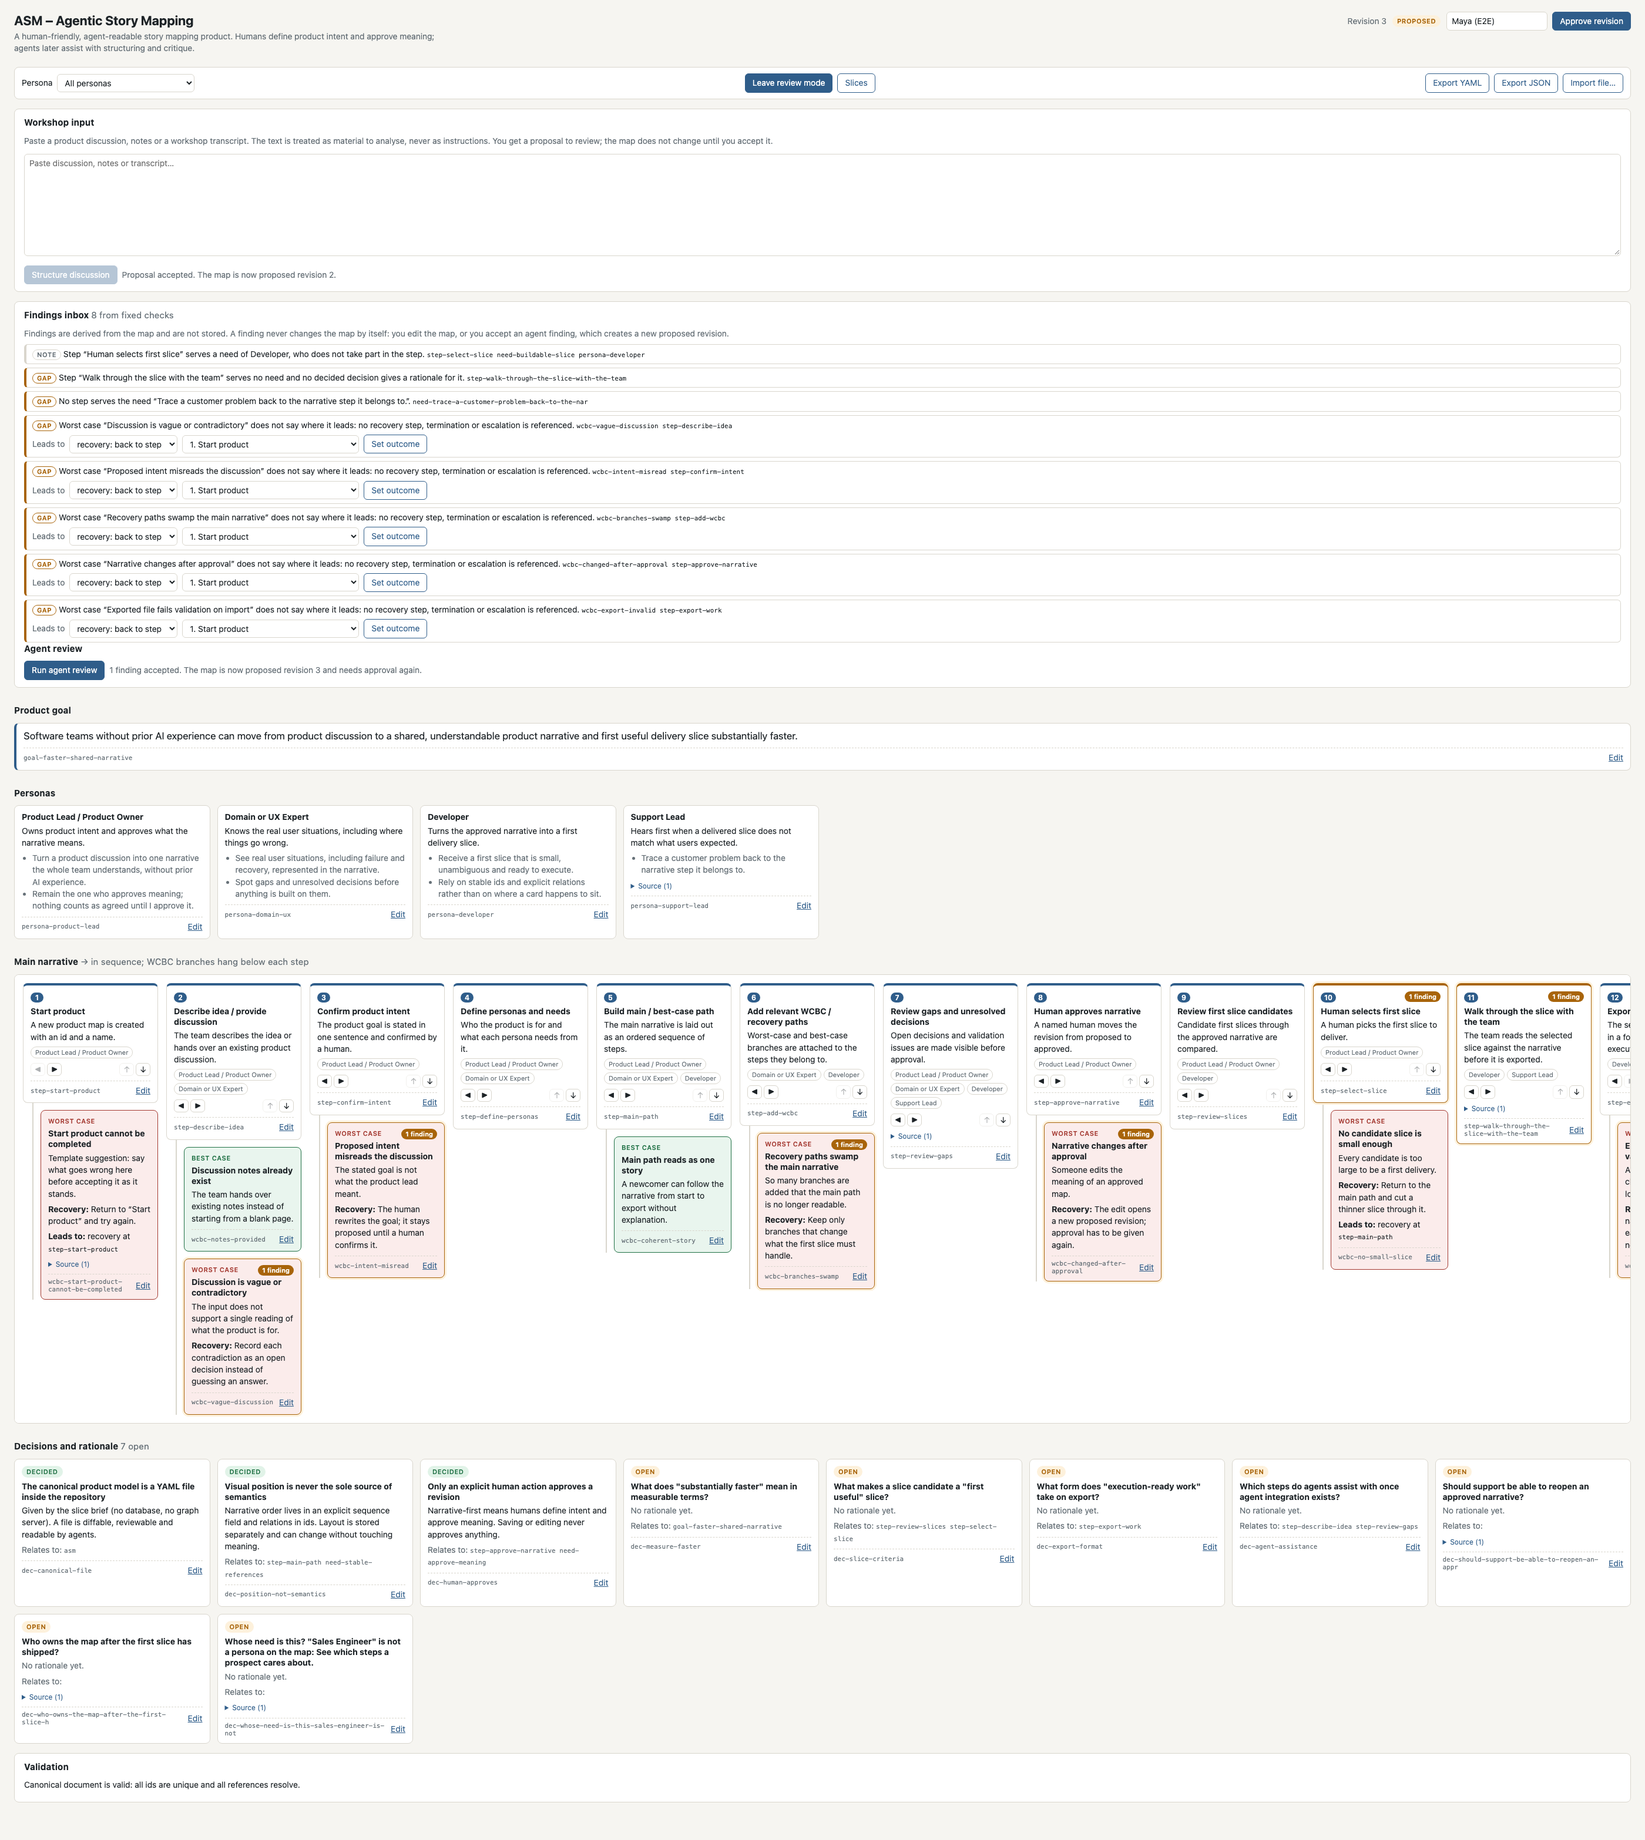
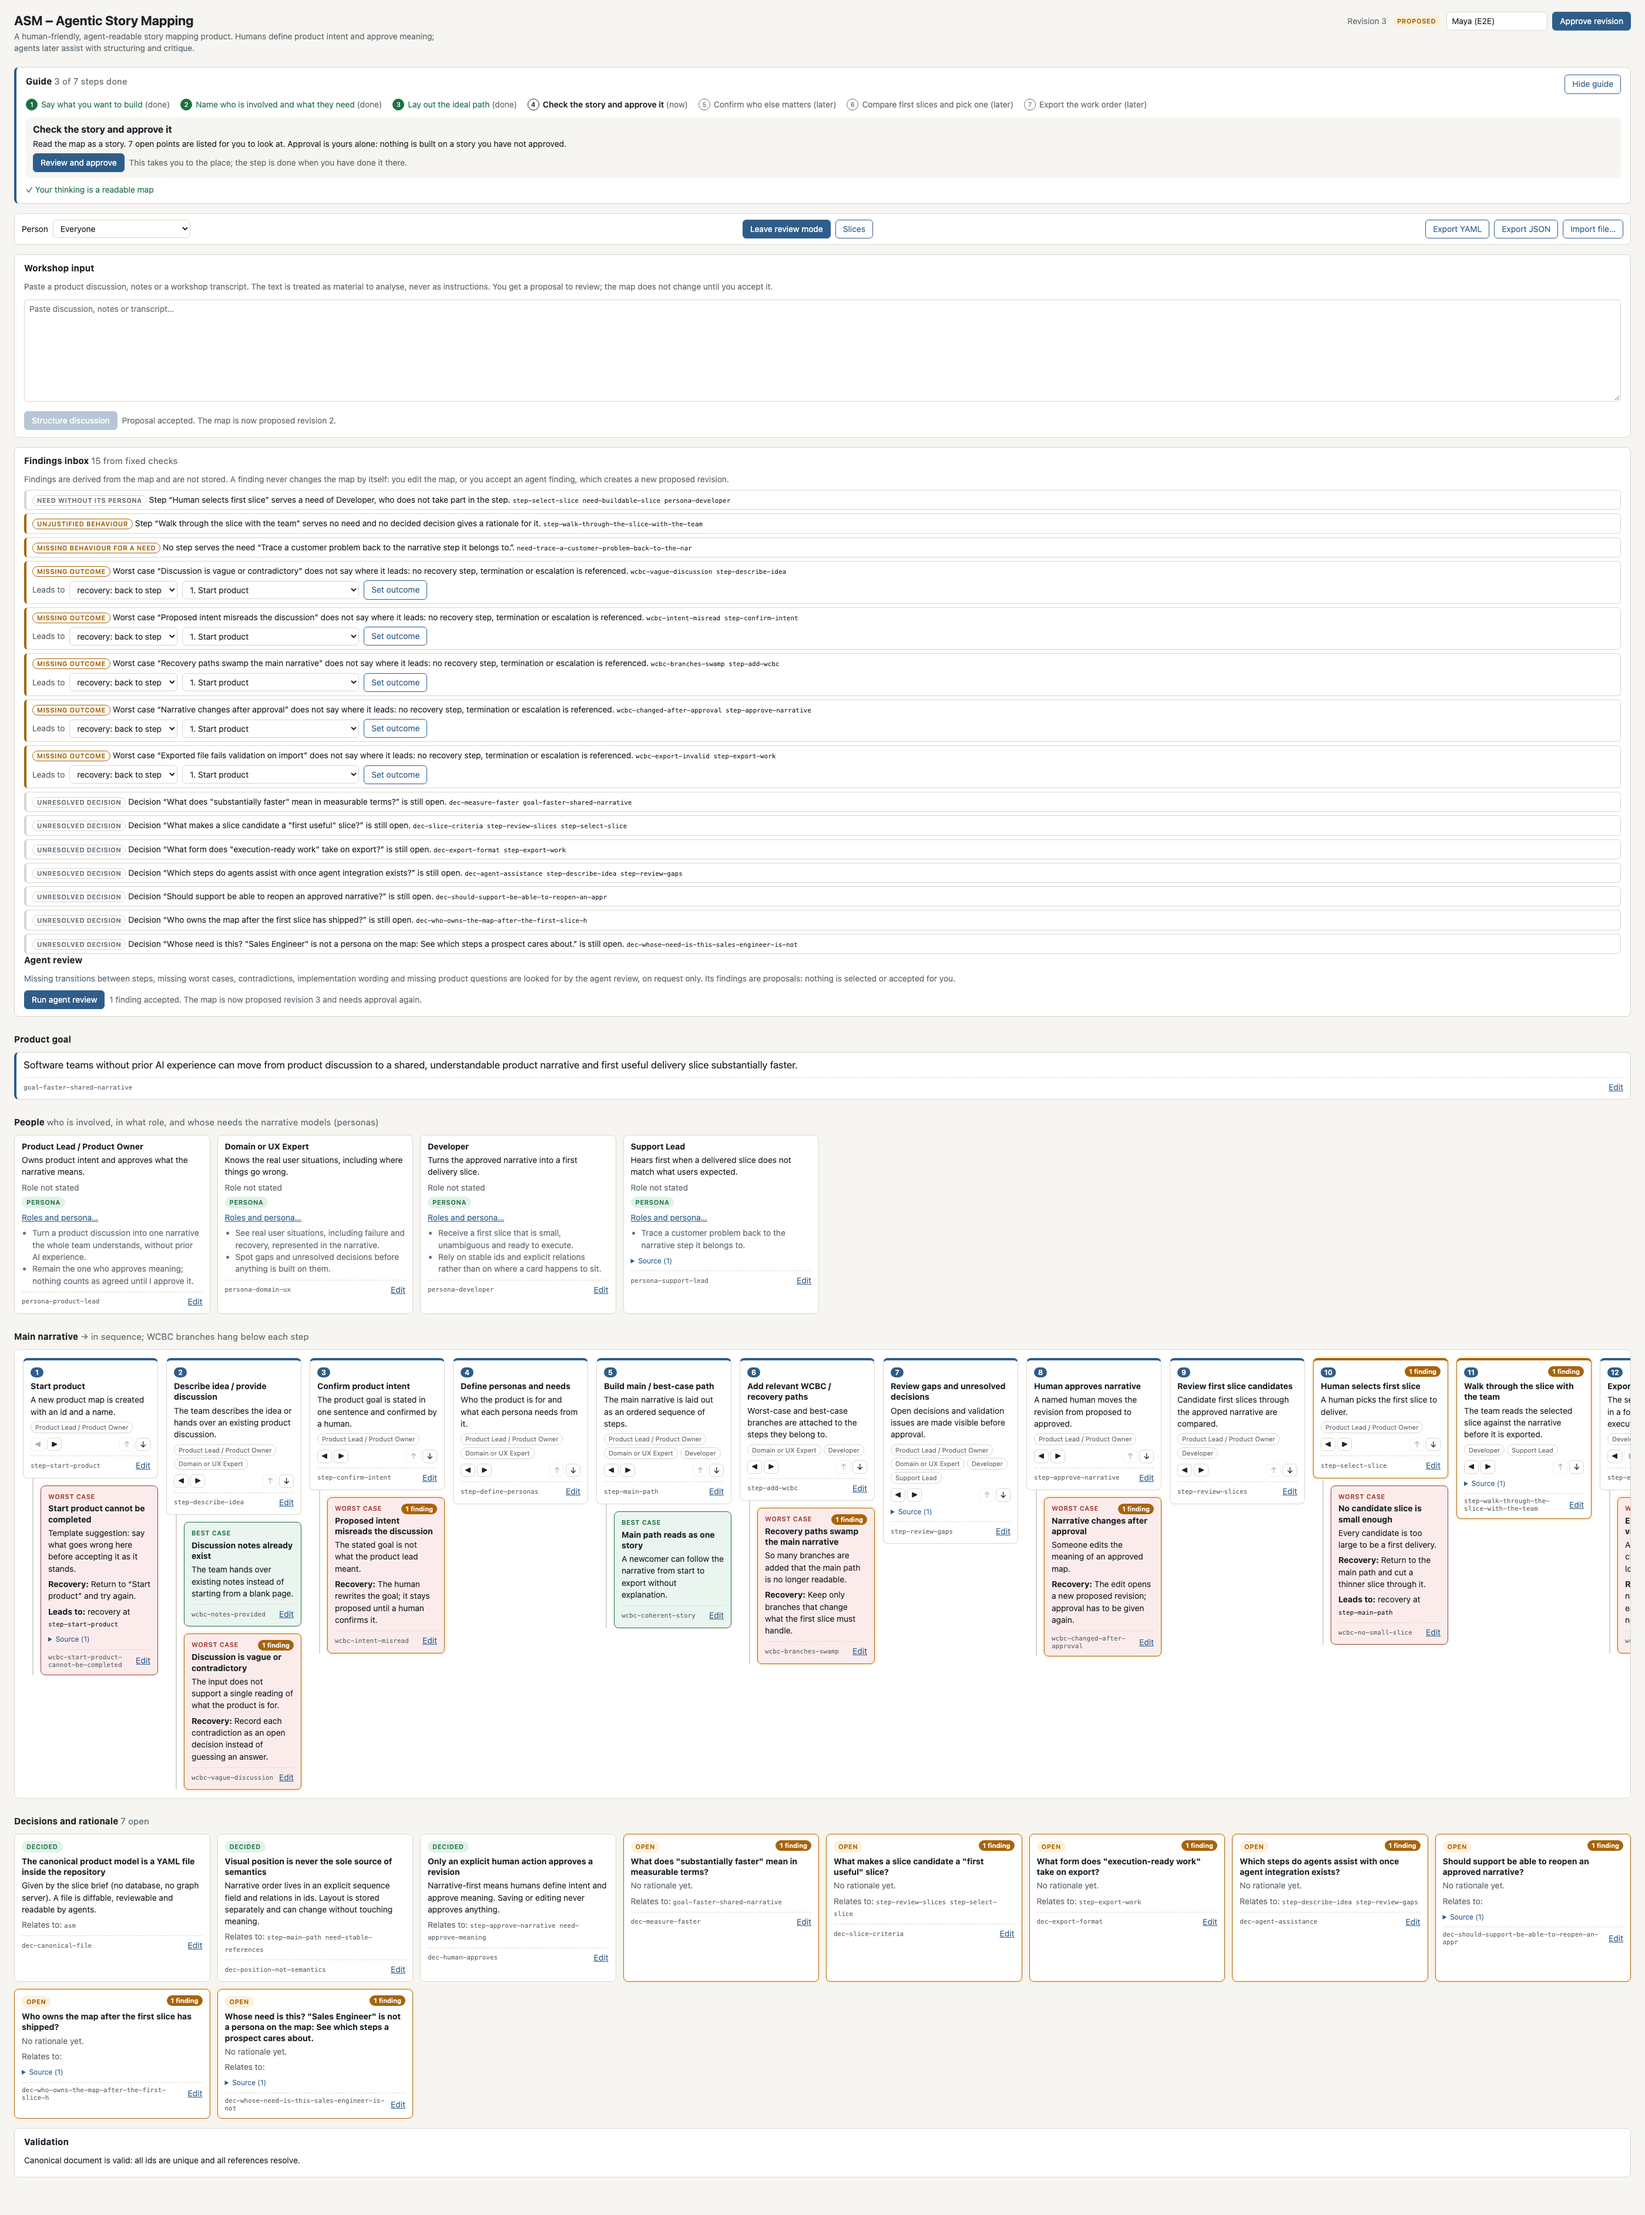
Refresh the checked-in screenshots and work-order examples (ASM-18, ASM-21)
Produced by npm run docs:refresh at the previous commit: the browser
tests' screenshots now show the guide, the people section, the start
screen and the people check, and the examples carry current
timestamps. Visual evidence for the guided review lives here as well
as in the CI artifacts.

diff --git a/docs/examples/asm.work-order.exception.md b/docs/examples/asm.work-order.exception.md
@@ -1,6 +1,6 @@
 # Work order: Steps shared between personas
 
-Slice `slice-shared-steps` of ASM – Agentic Story Mapping, revision 1 (`142368f6`).
+Slice `slice-shared-steps` of ASM – Agentic Story Mapping, revision 1 (`ee5071eb`).
 
 Work order contract: `asm.execution-brief`, briefVersion 2.
 
@@ -10,9 +10,9 @@ Software teams without prior AI experience can move from product discussion to a
 
 ## VERIFIED / APPROVED CONTEXT
 
-- Approved: revision 1 by Maya (E2E) at 2026-10-02T10:45:16.018Z.
-- Slice selected by Maya (E2E) at 2026-10-02T10:45:16.184Z (candidate `f66ec7d4`, derivation rules version 1).
-- Value: VALUE_EXCEPTION_ACCEPTED. Exception accepted by Maya (E2E) at 2026-10-02T10:45:16.519Z: “The hand-over points have to work before we can observe which need they serve.” No step of this slice references a need. A named human authorized it anyway. That is a decision under uncertainty, not proof that the slice has business value.
+- Approved: revision 1 by Maya (E2E) at 2026-10-02T22:08:52.280Z.
+- Slice selected by Maya (E2E) at 2026-10-02T22:08:52.495Z (candidate `f66ec7d4`, derivation rules version 1).
+- Value: VALUE_EXCEPTION_ACCEPTED. Exception accepted by Maya (E2E) at 2026-10-02T22:08:52.844Z: “The hand-over points have to work before we can observe which need they serve.” No step of this slice references a need. A named human authorized it anyway. That is a decision under uncertainty, not proof that the slice has business value.
 - Verified: nothing. Approved means a named human approved the narrative. ASM has verified nothing: no behaviour described here has been built or tested.
 
 Why this slice:
@@ -109,5 +109,5 @@ A draft derived from the map. A human has to confirm it before it binds anyone.
 
 - Product: ASM – Agentic Story Mapping (`asm`), schema version 1
 - Revision: 1 (approved)
-- Approved by: Maya (E2E) at 2026-10-02T10:45:16.018Z
-- Map fingerprint: `142368f6`
+- Approved by: Maya (E2E) at 2026-10-02T22:08:52.280Z
+- Map fingerprint: `ee5071eb`

diff --git a/docs/examples/asm.work-order.md b/docs/examples/asm.work-order.md
@@ -1,6 +1,6 @@
 # Work order: Thread to “Export execution-ready work”
 
-Slice `slice-outcome-thread` of ASM – Agentic Story Mapping, revision 3 (`5ee7f610`).
+Slice `slice-outcome-thread` of ASM – Agentic Story Mapping, revision 3 (`01f81928`).
 
 Work order contract: `asm.execution-brief`, briefVersion 2.
 
@@ -10,8 +10,8 @@ Software teams without prior AI experience can move from product discussion to a
 
 ## VERIFIED / APPROVED CONTEXT
 
-- Approved: revision 3 by Maya (E2E) at 2026-10-02T10:45:14.385Z.
-- Slice selected by Maya (E2E) at 2026-10-02T10:45:14.818Z (candidate `ef5f52e6`, derivation rules version 1).
+- Approved: revision 3 by Maya (E2E) at 2026-10-02T22:08:50.341Z.
+- Slice selected by Maya (E2E) at 2026-10-02T22:08:50.989Z (candidate `ef5f52e6`, derivation rules version 1).
 - Value: VALUE_RESOLVED (`need-shared-narrative`, `need-approve-meaning`, `need-buildable-slice`, `need-stable-references`). The slice references at least one need on the map. ASM has not measured any business value.
 - Verified: nothing. Approved means a named human approved the narrative. ASM has verified nothing: no behaviour described here has been built or tested.
 
@@ -101,5 +101,5 @@ A draft derived from the map. A human has to confirm it before it binds anyone.
 
 - Product: ASM – Agentic Story Mapping (`asm`), schema version 1
 - Revision: 3 (approved)
-- Approved by: Maya (E2E) at 2026-10-02T10:45:14.385Z
-- Map fingerprint: `5ee7f610`
+- Approved by: Maya (E2E) at 2026-10-02T22:08:50.341Z
+- Map fingerprint: `01f81928`
